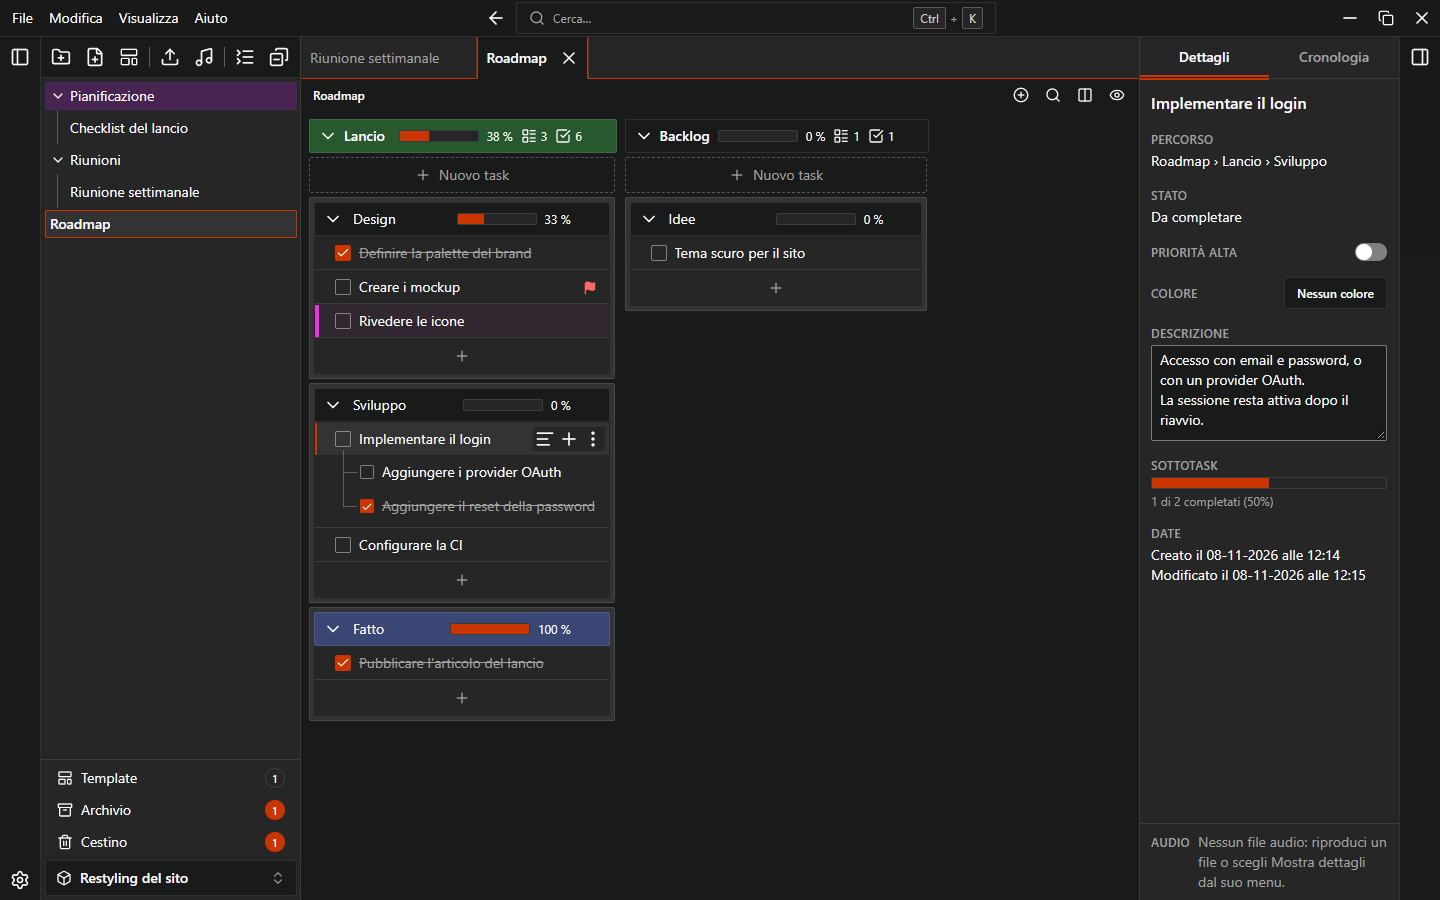
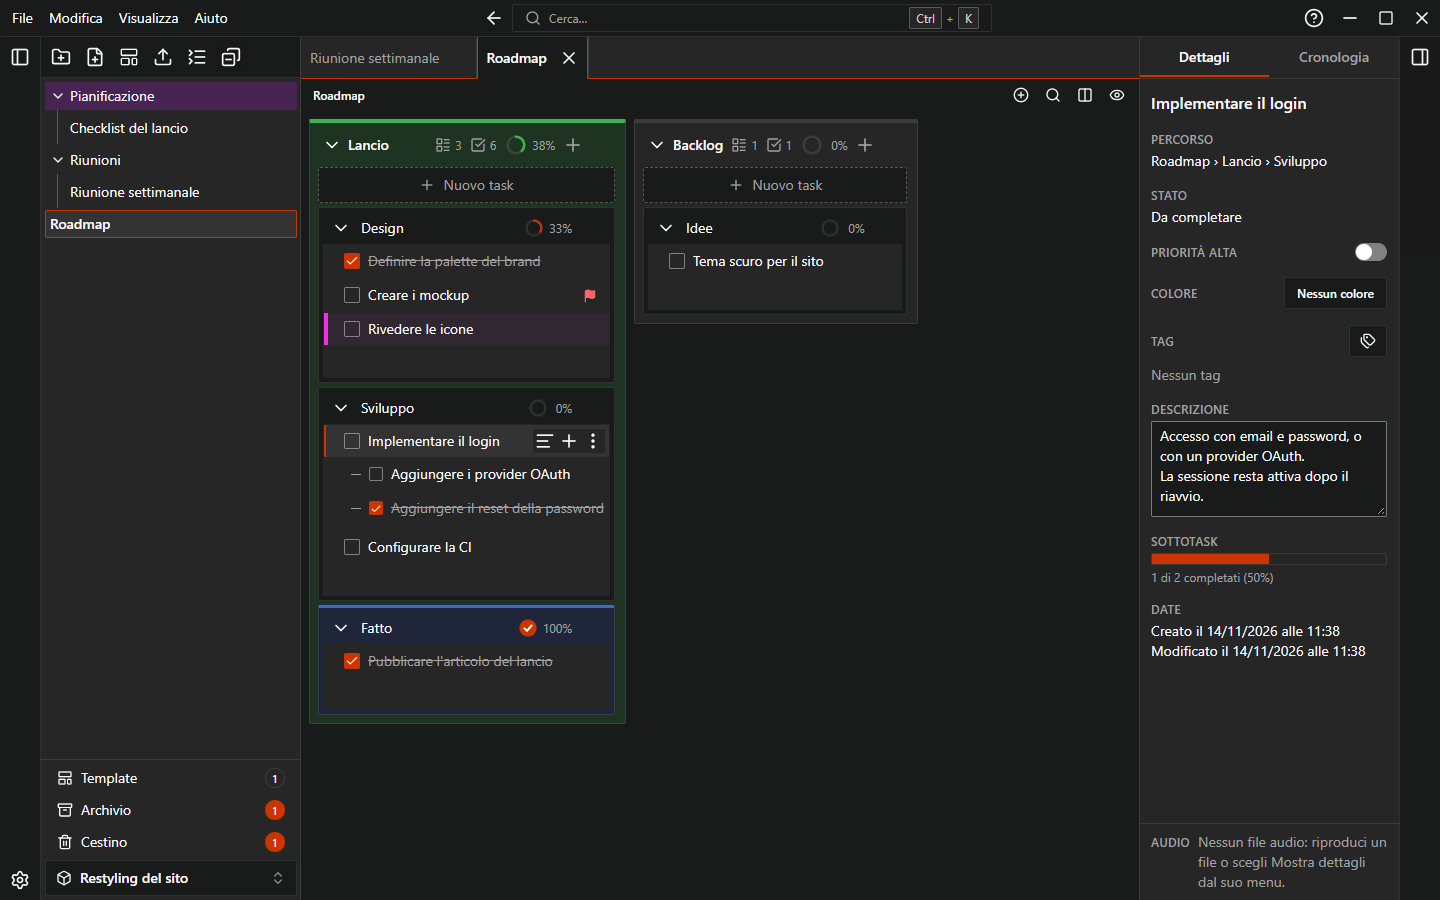
docs(tags): regenerate task menu and details screenshots, update their alt texts

diff --git a/docs/it/guide/groups-sections-tasks.md b/docs/it/guide/groups-sections-tasks.md
@@ -2,8 +2,8 @@
 
 Il contenuto di una nota è organizzato su tre livelli. Una nota contiene dei **gruppi**, affiancati come colonne. Un gruppo contiene delle **sezioni**, impilate nella colonna. Una sezione contiene dei **task**, e un task può avere dei **sottotask**, annidati quanto serve. Un gruppo può anche contenere task propri, subito sotto l'intestazione, senza alcuna sezione. Questa lista di task può stare in qualsiasi punto tra le sezioni del gruppo.
 
-![Un task selezionato con i suoi dettagli nel pannello a destra: percorso, stato, priorità, colore, descrizione, avanzamento delle sottoattività e date](../../screenshots/it/task-details-light.png){.light-only}
-![Un task selezionato con i suoi dettagli nel pannello a destra: percorso, stato, priorità, colore, descrizione, avanzamento delle sottoattività e date](../../screenshots/it/task-details-dark.png){.dark-only}
+![Un task selezionato con i suoi dettagli nel pannello a destra: percorso, stato, priorità, colore, tag, descrizione, avanzamento delle sottoattività e date](../../screenshots/it/task-details-light.png){.light-only}
+![Un task selezionato con i suoi dettagli nel pannello a destra: percorso, stato, priorità, colore, tag, descrizione, avanzamento delle sottoattività e date](../../screenshots/it/task-details-dark.png){.dark-only}
 
 ## Gruppi e sezioni
 
@@ -91,7 +91,7 @@ Passa il mouse su un task e fai clic su **Aggiungi sottotask**, oppure scegli la
 
 Apri il menu del task (pulsante del menu o clic destro):
 
-![Menu contestuale di un task con Aggiungi sottoattività, Aggiungi descrizione, Aggiungi priorità, Rinomina, Cambia colore, Sposta su e giù, Sposta in, Mostra dettagli, Archivia ed Elimina](../../screenshots/it/task-menu-light.png)
+![Menu contestuale di un task con Aggiungi sottoattività, Aggiungi descrizione, Aggiungi priorità, Tag…, Rinomina, Cambia colore, Sposta su e giù, Sposta in, Mostra dettagli, Archivia ed Elimina](../../screenshots/it/task-menu-light.png)
 
 | Voce                                         | Cosa fa                                                              |
 | -------------------------------------------- | -------------------------------------------------------------------- |

diff --git a/docs/guide/groups-sections-tasks.md b/docs/guide/groups-sections-tasks.md
@@ -2,8 +2,8 @@
 
 The content of a note is organized in three levels. A note holds **groups**, shown side by side as columns. A group holds **sections**, stacked in the column. A section holds **tasks**, and a task can have **subtasks**, as deep as you need. A group can also hold tasks of its own, directly under its header, without any section. That list of tasks can sit anywhere among the sections of the group.
 
-![A selected task with its details in the right panel: path, status, priority, color, description, subtasks progress and dates](../screenshots/en/task-details-light.png){.light-only}
-![A selected task with its details in the right panel: path, status, priority, color, description, subtasks progress and dates](../screenshots/en/task-details-dark.png){.dark-only}
+![A selected task with its details in the right panel: path, status, priority, color, tags, description, subtasks progress and dates](../screenshots/en/task-details-light.png){.light-only}
+![A selected task with its details in the right panel: path, status, priority, color, tags, description, subtasks progress and dates](../screenshots/en/task-details-dark.png){.dark-only}
 
 ## Groups and sections
 
@@ -91,7 +91,7 @@ Point at a task and click **Add subtask**, or choose it from the task menu. Type
 
 Open the menu of the task (menu button or right-click):
 
-![Context menu of a task with Add subtask, Add description, Add priority, Rename, Change color, Move up and down, Move to, Show details, Archive and Delete](../screenshots/en/task-menu-light.png)
+![Context menu of a task with Add subtask, Add description, Add priority, Tags…, Rename, Change color, Move up and down, Move to, Show details, Archive and Delete](../screenshots/en/task-menu-light.png)
 
 | Entry                                      | What it does                                                          |
 | ------------------------------------------ | --------------------------------------------------------------------- |
